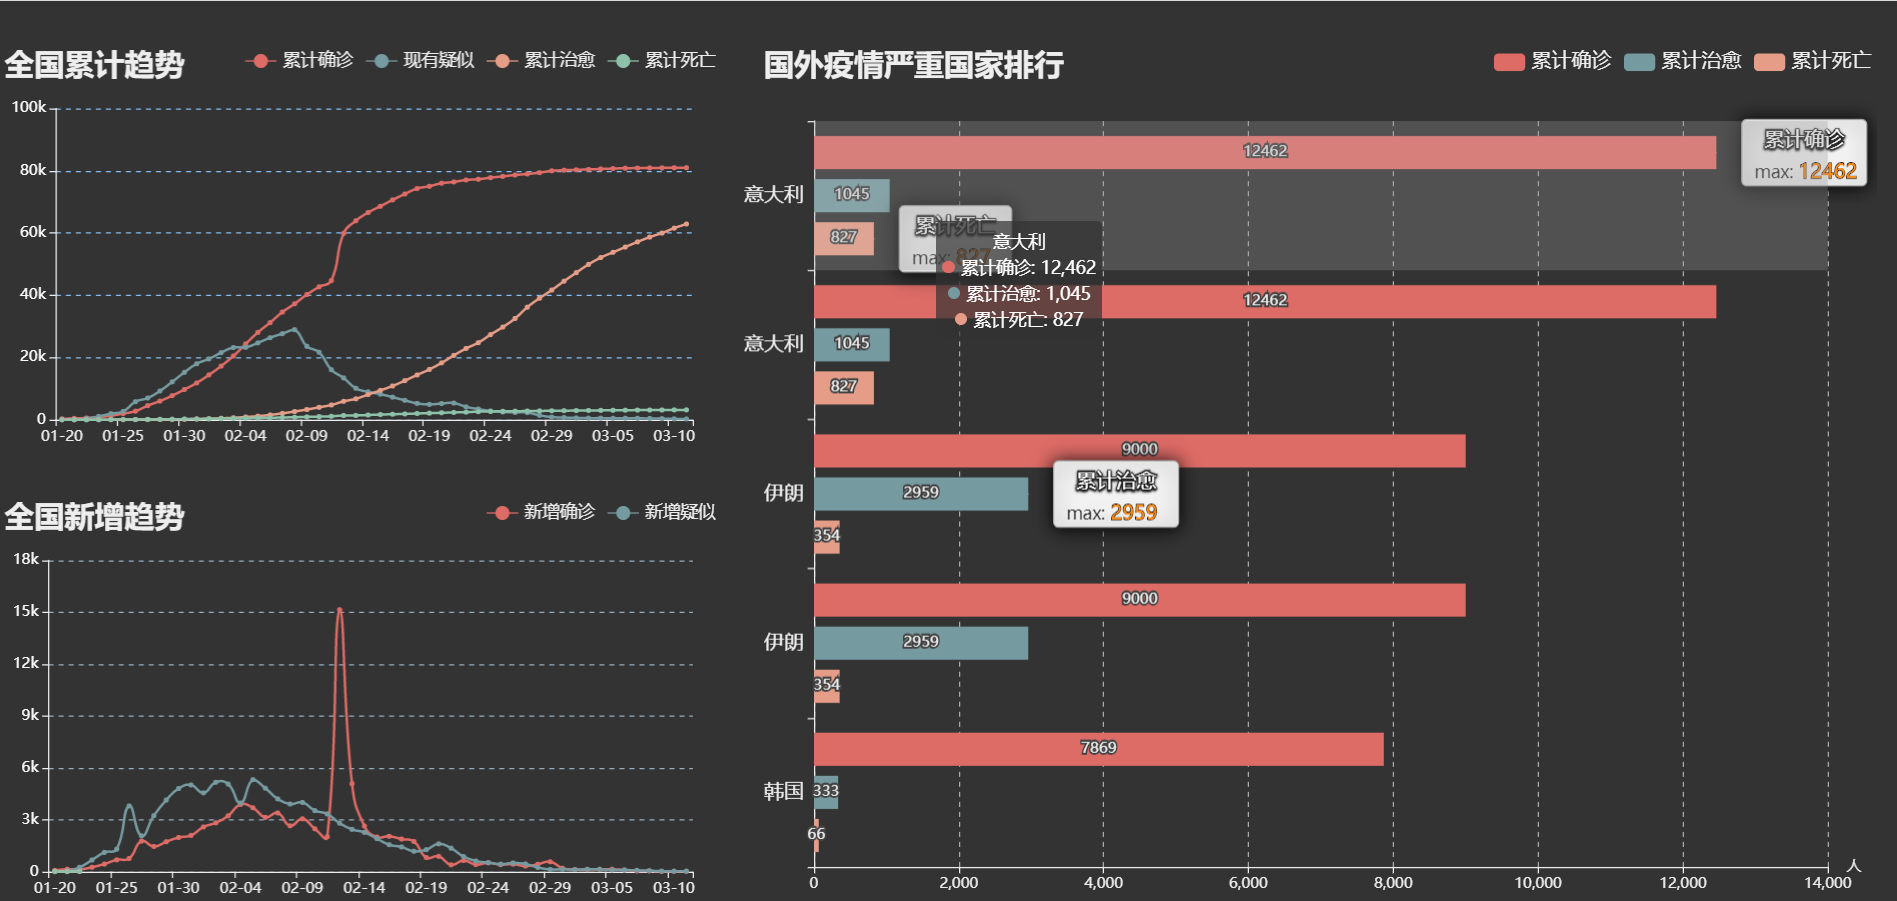
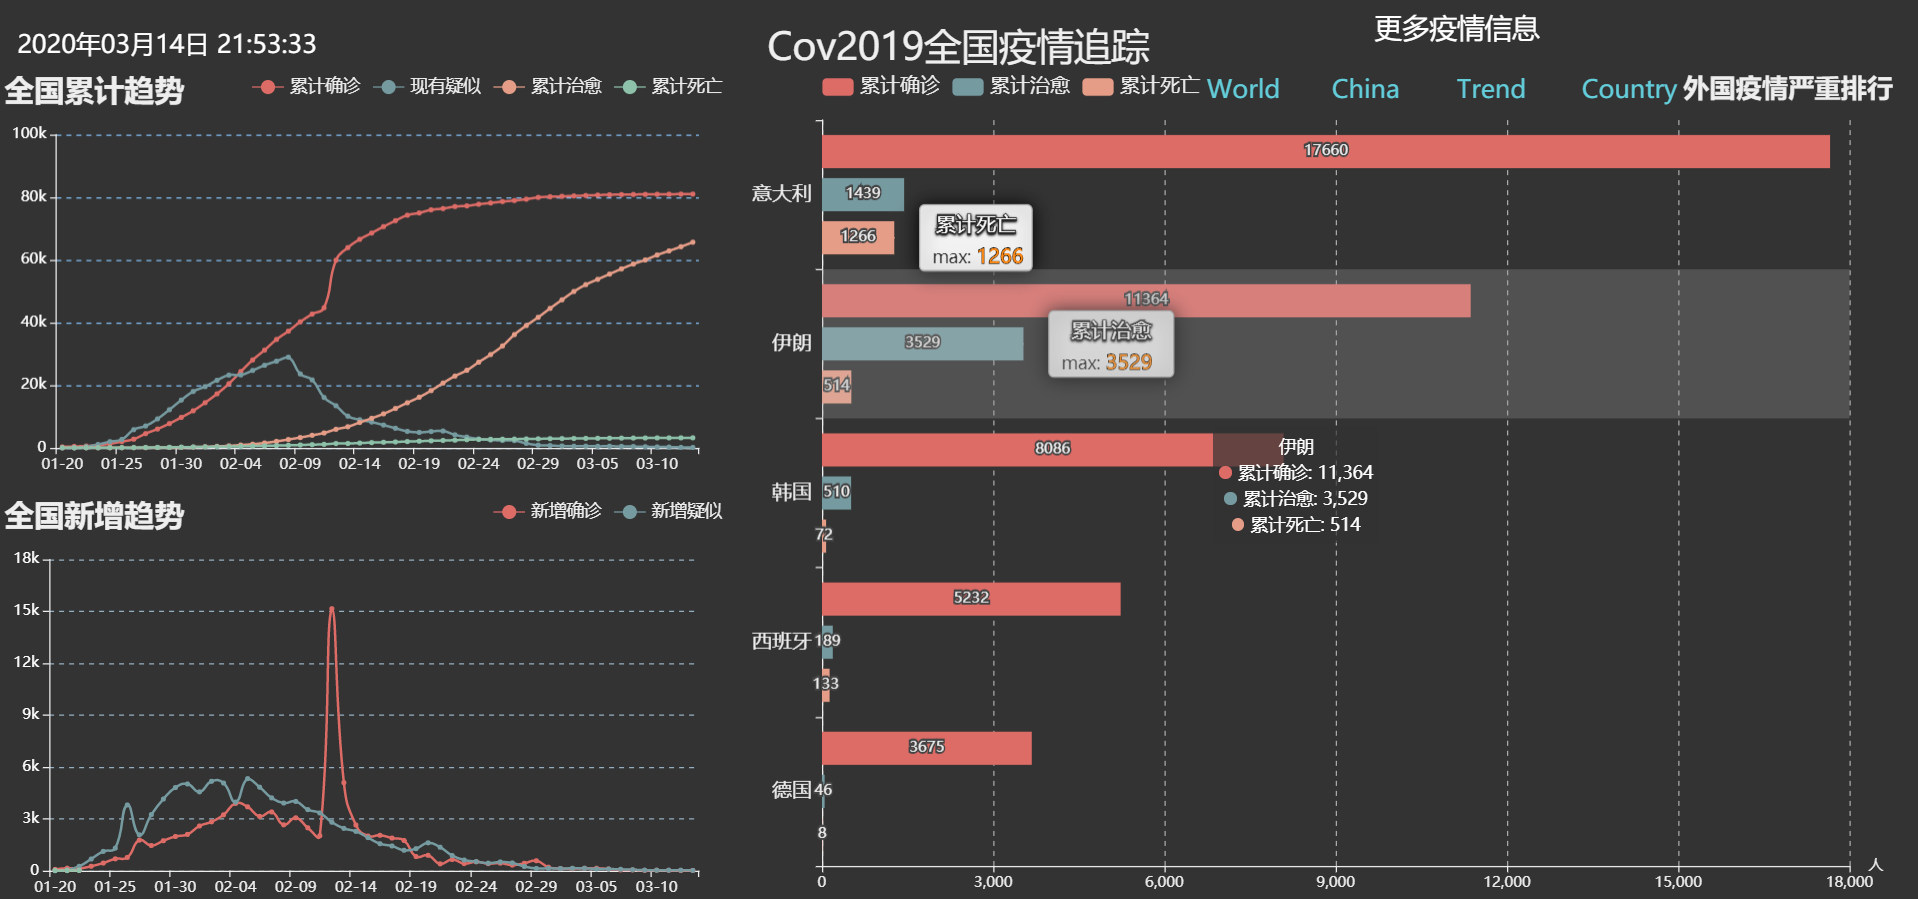
添加项目效果预览

diff --git a/Readme.md b/Readme.md
@@ -143,3 +143,5 @@ static目录存放各类静态文件
 ![imgs view2](https://raw.githubusercontent.com/huyinhao/cov2019/master/imgs/view2.png)
 
 ![imgs view3](https://raw.githubusercontent.com/huyinhao/cov2019/master/imgs/view3.png)
+
+![imgs view4](https://raw.githubusercontent.com/huyinhao/cov2019/master/imgs/view4.png)
